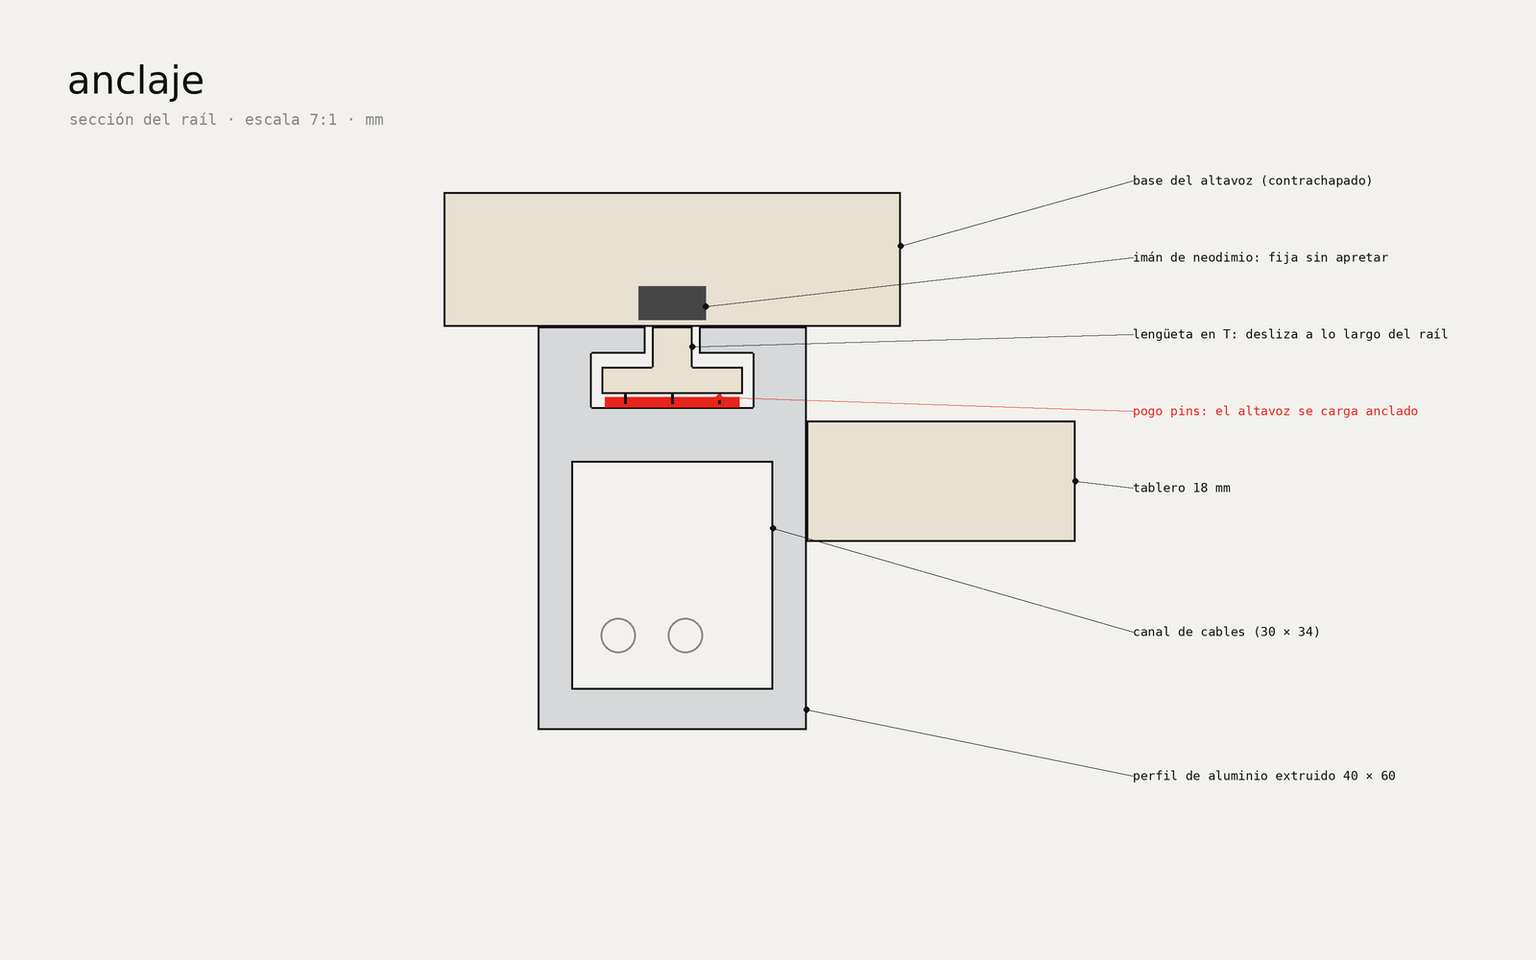
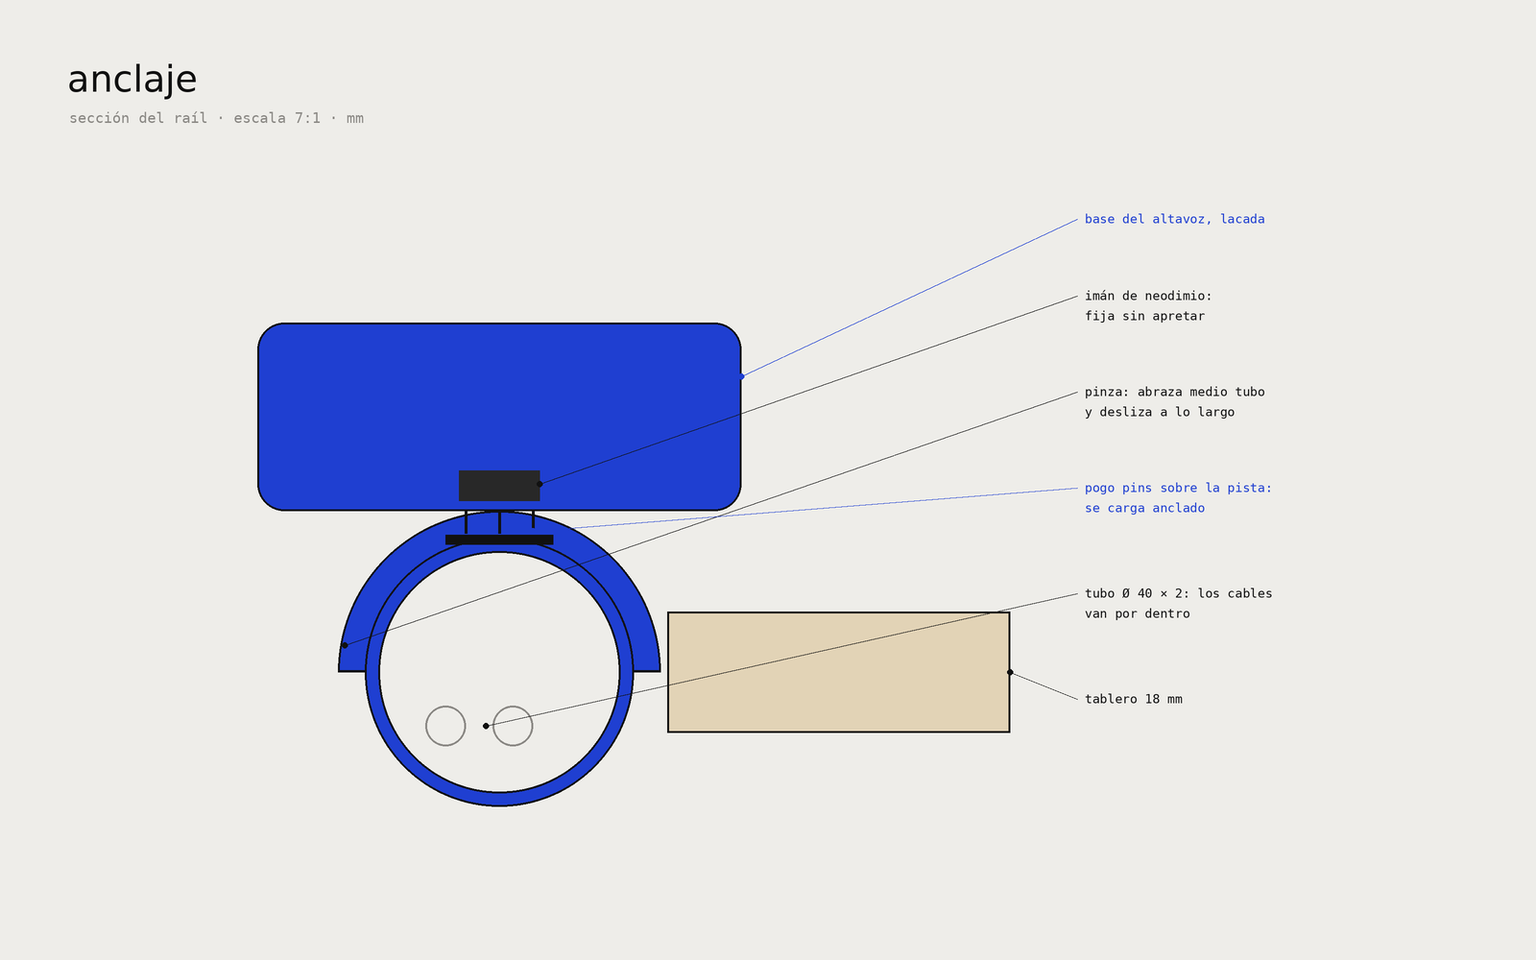
Apply Ziad's aesthetic: cobalt accent and tube language
The site's accent moves from red to cobalt blue. Estudio portátil
concept redrawn as monochrome cobalt objects: bent tube legs, a round
tube rail that doubles as handle and cable duct, lacquered speakers with
a tube handle, and the raw birch edge of the top left visible.

Claude-Session: https://claude.ai/code/session_01TUN31bxfUDbLjRBtznYgvU

diff --git a/dist/ziadaddami.html b/dist/ziadaddami.html
@@ -13,7 +13,7 @@
   --paper:#f2f1ee;
   --ink:#111;
   --mute:#8a8884;
-  --red:#e8251b;
+  --accent:#1f3fd1;
   --mono:"JetBrains Mono", ui-monospace, Menlo, monospace;
 }
 *{box-sizing:border-box;margin:0;padding:0}
@@ -31,7 +31,7 @@ canvas{position:fixed;inset:0;width:100%;height:100%;display:block}
 .tr{right:20px;top:16px;text-align:right}
 .bl{left:20px;bottom:16px}
 .br{right:20px;bottom:16px;text-align:right}
-.phi{color:var(--red)}
+.phi{color:var(--accent)}
 .hint{transition:opacity .8s}
 .hint.off{opacity:0}
 
@@ -39,7 +39,7 @@ canvas{position:fixed;inset:0;width:100%;height:100%;display:block}
 .cap .i{display:block;font-family:var(--mono);font-size:11px;letter-spacing:.04em;color:var(--mute)}
 .cap .t{font-weight:300;font-size:22px;letter-spacing:-.03em;line-height:1.1;margin-right:.5em}
 .cap .d{font-weight:300;font-size:14px;color:var(--mute)}
-.cap .n{display:block;font-family:var(--mono);font-size:11px;letter-spacing:.02em;color:var(--red);margin-top:4px}
+.cap .n{display:block;font-family:var(--mono);font-size:11px;letter-spacing:.02em;color:var(--accent);margin-top:4px}
 @media (max-width:700px){.cap .t{font-size:18px}.cap .d{font-size:13px}}
 /* sobre imagen: texto blanco */
 body.on-img .hud,body.on-img .cap{color:#fff;text-shadow:0 0 8px rgba(0,0,0,.45)}
@@ -129,7 +129,7 @@ const css = getComputedStyle(document.documentElement);
 const PAPER = css.getPropertyValue('--paper').trim();
 const INK = css.getPropertyValue('--ink').trim();
 const MUTE = css.getPropertyValue('--mute').trim();
-const RED = css.getPropertyValue('--red').trim();
+const ACCENT = css.getPropertyValue("--accent").trim();
 const MONO = css.getPropertyValue('--mono').trim();
 const SANS = '"Inter Tight", Helvetica, Arial, sans-serif';
 
@@ -272,7 +272,7 @@ function draw() {
   ctx.restore();
 
   // --- espiral áurea: un cuarto de circunferencia por cuadrado ---
-  ctx.strokeStyle = RED; ctx.lineWidth = hair * 1.4;
+  ctx.strokeStyle = ACCENT; ctx.lineWidth = hair * 1.4;
   ctx.beginPath();
   let first = true;
   for (let j = -2; j < 26; j++) {

diff --git a/index.html b/index.html
@@ -13,7 +13,7 @@
   --paper:#f2f1ee;
   --ink:#111;
   --mute:#8a8884;
-  --red:#e8251b;
+  --accent:#1f3fd1;
   --mono:"JetBrains Mono", ui-monospace, Menlo, monospace;
 }
 *{box-sizing:border-box;margin:0;padding:0}
@@ -31,7 +31,7 @@ canvas{position:fixed;inset:0;width:100%;height:100%;display:block}
 .tr{right:20px;top:16px;text-align:right}
 .bl{left:20px;bottom:16px}
 .br{right:20px;bottom:16px;text-align:right}
-.phi{color:var(--red)}
+.phi{color:var(--accent)}
 .hint{transition:opacity .8s}
 .hint.off{opacity:0}
 
@@ -39,7 +39,7 @@ canvas{position:fixed;inset:0;width:100%;height:100%;display:block}
 .cap .i{display:block;font-family:var(--mono);font-size:11px;letter-spacing:.04em;color:var(--mute)}
 .cap .t{font-weight:300;font-size:22px;letter-spacing:-.03em;line-height:1.1;margin-right:.5em}
 .cap .d{font-weight:300;font-size:14px;color:var(--mute)}
-.cap .n{display:block;font-family:var(--mono);font-size:11px;letter-spacing:.02em;color:var(--red);margin-top:4px}
+.cap .n{display:block;font-family:var(--mono);font-size:11px;letter-spacing:.02em;color:var(--accent);margin-top:4px}
 @media (max-width:700px){.cap .t{font-size:18px}.cap .d{font-size:13px}}
 /* sobre imagen: texto blanco */
 body.on-img .hud,body.on-img .cap{color:#fff;text-shadow:0 0 8px rgba(0,0,0,.45)}
@@ -128,7 +128,7 @@ const css = getComputedStyle(document.documentElement);
 const PAPER = css.getPropertyValue('--paper').trim();
 const INK = css.getPropertyValue('--ink').trim();
 const MUTE = css.getPropertyValue('--mute').trim();
-const RED = css.getPropertyValue('--red').trim();
+const ACCENT = css.getPropertyValue("--accent").trim();
 const MONO = css.getPropertyValue('--mono').trim();
 const SANS = '"Inter Tight", Helvetica, Arial, sans-serif';
 
@@ -271,7 +271,7 @@ function draw() {
   ctx.restore();
 
   // --- espiral áurea: un cuarto de circunferencia por cuadrado ---
-  ctx.strokeStyle = RED; ctx.lineWidth = hair * 1.4;
+  ctx.strokeStyle = ACCENT; ctx.lineWidth = hair * 1.4;
   ctx.beginPath();
   let first = true;
   for (let j = -2; j < 26; j++) {

diff --git a/tools/concept_estudio.py b/tools/concept_estudio.py
@@ -2,24 +2,23 @@
 
   python3 tools/concept_estudio.py      -> fuentes/estudio-*.png
 
-Dibujos de línea con la paleta de la web: conjunto en isométrica, secuencia de plegado
-en alzado y sección del raíl de anclaje. Medidas en cm (conjunto, plegado) y mm (sección).
+Lenguaje: objetos monocromos en azul cobalto lacado (tubo de radio generoso, como un
+grifo Vola), sobre el canto crudo del contrachapado. Conjunto en isométrica, secuencia de
+plegado en alzado y sección del anclaje. Medidas en cm (conjunto, plegado) y mm (sección).
 """
 import math, os
 from PIL import Image, ImageDraw, ImageFont
 
 ROOT = os.path.dirname(os.path.dirname(os.path.abspath(__file__)))
 OUT = os.path.join(ROOT, 'fuentes')
-PAPER, INK, MUTE, RED = (242, 241, 238), (17, 17, 17), (138, 136, 132), (232, 37, 27)
-WOOD, ALU = (232, 224, 208), (214, 216, 218)
-SS = 2  # supersampling
+PAPER, INK, MUTE = (238, 237, 233), (17, 17, 17), (138, 136, 132)
+BLUE = (31, 63, 209)          # cobalto, el mismo acento que la web
+WOOD = (226, 211, 182)        # canto de abedul
+SS = 2                        # supersampling
 
 def font(px, mono=False):
-    for f in (('/usr/share/fonts/truetype/dejavu/DejaVuSansMono.ttf',) if mono else
-              ('/usr/share/fonts/truetype/dejavu/DejaVuSans-ExtraLight.ttf', '/usr/share/fonts/truetype/dejavu/DejaVuSans.ttf')):
-        if os.path.exists(f):
-            return ImageFont.truetype(f, px * SS)
-    return ImageFont.load_default()
+    f = '/usr/share/fonts/truetype/dejavu/' + ('DejaVuSansMono.ttf' if mono else 'DejaVuSans.ttf')
+    return ImageFont.truetype(f, px * SS) if os.path.exists(f) else ImageFont.load_default()
 
 def canvas(w, h):
     im = Image.new('RGB', (w * SS, h * SS), PAPER)
@@ -30,142 +29,165 @@ def save(im, name):
     im.resize((w // SS, h // SS), Image.LANCZOS).save(os.path.join(OUT, name))
     print('ok', name)
 
-def label(d, xy, text, to=None, color=INK, size=13, anchor='la'):
+def title(d, t, sub):
+    d.text((70 * SS, 60 * SS), t, font=font(38), fill=INK)
+    d.text((72 * SS, 114 * SS), sub, font=font(15, True), fill=MUTE)
+
+def label(d, xy, lines, to=None, color=INK):
     x, y = xy
     if to:
-        d.line([to, (x, y + 8 * SS)], fill=color, width=SS)
+        d.line([to, (x - 8 * SS, y + 8 * SS)], fill=color, width=SS)
         d.ellipse([to[0] - 3 * SS, to[1] - 3 * SS, to[0] + 3 * SS, to[1] + 3 * SS], fill=color)
-    d.text((x, y), text, font=font(size, mono=True), fill=color, anchor=anchor)
+    for i, l in enumerate(lines if isinstance(lines, (list, tuple)) else [lines]):
+        d.text((x, y + i * 21 * SS), l, font=font(13, True), fill=color)
 
-# ------------------------------------------------------------------ isométrica
+def shade(c, t):
+    return tuple(max(0, min(255, int(v * t))) for v in c)
+
+# ------------------------------------------------------------------ geometría 3D
 def iso(o, k):
     c, s = math.cos(math.radians(30)), math.sin(math.radians(30))
     return lambda x, y, z: (o[0] + (x - y) * c * k, o[1] + (x + y) * s * k - z * k)
 
-def box(d, P, a, b, fill, w=2):
+def box(d, P, a, b, top, side=None, w=2):
     (x0, y0, z0), (x1, y1, z1) = a, b
-    faces = [  # caras visibles desde +x +y +z
-        [(x1, y0, z0), (x1, y1, z0), (x1, y1, z1), (x1, y0, z1)],
-        [(x0, y1, z0), (x1, y1, z0), (x1, y1, z1), (x0, y1, z1)],
-        [(x0, y0, z1), (x1, y0, z1), (x1, y1, z1), (x0, y1, z1)],
-    ]
-    shade = [0.93, 0.86, 1.0]
-    for f, t in zip(faces, shade):
-        col = tuple(int(c * t) for c in fill)
+    side = side or top
+    for f, col in (([(x1, y0, z0), (x1, y1, z0), (x1, y1, z1), (x1, y0, z1)], shade(side, .86)),
+                   ([(x0, y1, z0), (x1, y1, z0), (x1, y1, z1), (x0, y1, z1)], shade(side, .74)),
+                   ([(x0, y0, z1), (x1, y0, z1), (x1, y1, z1), (x0, y1, z1)], top)):
         d.polygon([P(*p) for p in f], fill=col, outline=INK, width=w * SS)
 
+def fillet(pts, r, n=10):
+    """Polilínea 3D con las esquinas redondeadas (radio r), como un tubo curvado."""
+    out = [pts[0]]
+    for a, b, c in zip(pts, pts[1:], pts[2:]):
+        u = [b[i] - a[i] for i in range(3)]; v = [c[i] - b[i] for i in range(3)]
+        lu = math.sqrt(sum(x * x for x in u)); lv = math.sqrt(sum(x * x for x in v))
+        u = [x / lu for x in u]; v = [x / lv for x in v]
+        rr = min(r, lu / 2, lv / 2)
+        p0 = [b[i] - u[i] * rr for i in range(3)]; p2 = [b[i] + v[i] * rr for i in range(3)]
+        for t in [j / n for j in range(n + 1)]:      # Bézier cuadrática ≈ arco
+            out.append(tuple((1 - t) ** 2 * p0[i] + 2 * (1 - t) * t * b[i] + t * t * p2[i] for i in range(3)))
+    out.append(pts[-1])
+    return out
+
+def tube(d, P, pts, dia, k, col=BLUE, r=8):
+    path = [P(*p) for p in fillet(pts, r)]
+    w = max(2, int(dia * k))
+    d.line(path, fill=INK, width=w + 4 * SS, joint='curve')
+    for q in (path[0], path[-1]):
+        d.ellipse([q[0] - (w + 4 * SS) / 2, q[1] - (w + 4 * SS) / 2, q[0] + (w + 4 * SS) / 2, q[1] + (w + 4 * SS) / 2], fill=INK)
+    d.line(path, fill=col, width=w, joint='curve')
+    for q in (path[0], path[-1]):
+        d.ellipse([q[0] - w / 2, q[1] - w / 2, q[0] + w / 2, q[1] + w / 2], fill=col)
+    hl = [(x - w * .18, y - w * .18) for x, y in path]            # brillo del lacado
+    d.line(hl, fill=shade(col, 1.55), width=max(1, w // 6), joint='curve')
+
+# ------------------------------------------------------------------ conjunto
 def conjunto():
     im, d = canvas(1600, 1000)
-    parts = []
-    for x in (6, 111):                                       # patas: marco de aluminio
-        parts += [((x, 8, 0), (x + 3, 12, 72), ALU), ((x, 8, 0), (x + 3, 60, 3), ALU),
-                  ((x, 56, 0), (x + 3, 60, 72), ALU), ((x, 8, 69), (x + 3, 60, 72), ALU)]
-    parts += [((0, 0, 70), (120, 4, 76), ALU),               # raíl trasero (anclaje + cables + asa)
-              ((0, 4, 72), (120, 64, 73.8), WOOD),           # tablero 18 mm
-              ((38, 30, 73.8), (70, 52, 75.2), (60, 60, 60)),  # portátil
-              ((74, 44, 73.8), (114, 58, 77), (40, 40, 40))]   # controlador
-    for x in (8, 100):                                       # altavoces anclados al raíl
-        parts.append(((x, -3, 76), (x + 12, 9, 96), WOOD))
-    # encaje: proyección unitaria y escala para ocupar la zona de dibujo
     P1 = iso((0, 0), 1)
-    pts = [P1(x, y, z) for a, b, _ in parts for x in (a[0], b[0]) for y in (a[1], b[1]) for z in (a[2], b[2])]
+    pts = [P1(x, y, z) for x in (-2, 122) for y in (-6, 66) for z in (0, 100)]
     x0, x1 = min(p[0] for p in pts), max(p[0] for p in pts)
     y0, y1 = min(p[1] for p in pts), max(p[1] for p in pts)
-    k = min(900 / (x1 - x0), 700 / (y1 - y0))
-    P = iso(((90 - x0 * k) * SS, (220 - y0 * k) * SS), k * SS)
-    for a, b, c in parts:
-        box(d, P, a, b, c)
-        if c is WOOD and a[2] == 76:
-            cx, cy = P(a[0] + 6, b[1], 88); r = 2.6 * k * SS
-            d.ellipse([cx - r, cy - r, cx + r, cy + r], outline=INK, width=2 * SS)
-    d.text((70 * SS, 60 * SS), 'estudio portátil', font=font(40), fill=INK)
-    d.text((72 * SS, 115 * SS), 'escritorio plegable + altavoz portátil · un solo sistema', font=font(16, True), fill=MUTE)
-    label(d, (1110 * SS, 200 * SS), 'altavoz anclado al raíl', to=P(112, 3, 96), color=RED)
-    label(d, (1110 * SS, 222 * SS), 'carga por contacto', color=RED)
-    label(d, (1110 * SS, 330 * SS), 'raíl de aluminio', to=P(120, 2, 76))
-    label(d, (1110 * SS, 352 * SS), 'anclaje + cables + asa')
-    label(d, (1110 * SS, 470 * SS), 'tablero de abedul 18 mm', to=P(120, 34, 73.8))
-    label(d, (1110 * SS, 640 * SS), 'patas: marcos de', to=P(114, 58, 30))
-    label(d, (1110 * SS, 662 * SS), 'aluminio plegado')
-    label(d, (72 * SS, 930 * SS), '120 × 60 × 75 cm · plegado 8 cm · 40 kg', color=MUTE)
+    k = min(880 / (x1 - x0), 720 / (y1 - y0))
+    P = iso(((100 - x0 * k) * SS, (200 - y0 * k) * SS), k * SS)
+    # patas: un tubo continuo por lado, en U invertida con pie, radio generoso
+    for x in (8, 112):
+        tube(d, P, [(x, 6, 0), (x, 6, 71), (x, 58, 71), (x, 58, 0)], 3, k * SS, r=10)
+        tube(d, P, [(x, 0, 0), (x, 64, 0)], 3, k * SS, r=1)
+    # raíl trasero: tubo Ø4 cm que sobresale y hace de asa
+    tube(d, P, [(-2, 2, 73), (122, 2, 73)], 4, k * SS, r=1)
+    # tablero: lacado azul arriba, canto de abedul crudo a la vista
+    box(d, P, (0, 4, 72), (120, 64, 73.8), top=BLUE, side=WOOD)
+    box(d, P, (38, 30, 73.8), (70, 52, 75.2), top=(70, 70, 70))       # portátil
+    box(d, P, (74, 44, 73.8), (112, 58, 77), top=(52, 52, 52))        # controlador
+    # altavoces: cuerpo monocromo con asa de tubo arriba
+    for x in (10, 98):
+        box(d, P, (x, -4, 76), (x + 12, 10, 94), top=BLUE)
+        cx, cy = P(x + 6, 10, 86); r = 3.4 * k * SS
+        d.ellipse([cx - r, cy - r * .9, cx + r, cy + r * .9], fill=shade(BLUE, .55), outline=INK, width=2 * SS)
+        tube(d, P, [(x + 2, 3, 94), (x + 2, 3, 99), (x + 10, 3, 99), (x + 10, 3, 94)], 1.4, k * SS, r=3)
+    title(d, 'estudio portátil', 'escritorio plegable + altavoz portátil · un solo sistema')
+    label(d, (1130 * SS, 190 * SS), ['altavoz: cuerpo lacado', 'asa de tubo · se ancla y', 'se carga en el raíl'], to=P(110, 3, 99), color=BLUE)
+    label(d, (1130 * SS, 330 * SS), ['raíl: tubo Ø 40', 'anclaje + cables + asa'], to=P(122, 2, 73))
+    label(d, (1130 * SS, 450 * SS), ['tablero lacado', 'canto de abedul a la vista'], to=P(120, 40, 72.9))
+    label(d, (1130 * SS, 610 * SS), ['patas: un solo tubo', 'curvado por lado'], to=P(112, 58, 30))
+    d.text((72 * SS, 930 * SS), '120 × 60 × 75 cm · plegado 8 cm · 40 kg · todo en azul cobalto', font=font(13, True), fill=MUTE)
     save(im, 'estudio-conjunto.png')
 
 # ------------------------------------------------------------------ plegado (alzado x-z)
 def plegado():
     im, d = canvas(1600, 1000)
     k = 2.6 * SS
-    def frame(ox, oy, ang, title):
+    def leg(T, hx, sgn, ang, L, col):
+        a = math.radians(ang)
+        px, pz = hx + sgn * L * math.cos(a), 72 - L * math.sin(a)
+        w = int(3 * k)
+        d.line([T(hx, 72), T(px, pz)], fill=INK, width=w + 4 * SS)
+        d.line([T(hx, 72), T(px, pz)], fill=col, width=w)
+    def frame(ox, oy, ang, t):
         T = lambda x, z: (ox + x * k, oy - z * k)
-        d.rectangle([T(0, 76), T(120, 70)], fill=ALU, outline=INK, width=2 * SS)        # raíl detrás
-        d.rectangle([T(0, 73.8), T(120, 72)], fill=WOOD, outline=INK, width=2 * SS)     # tablero
-        for hx, sgn, dash in ((8, 1, False), (112, -1, True)):
-            a = math.radians(ang)
-            L = 69 if not dash else 66
-            ex, ez = hx + sgn * L * math.cos(a) * 0 + sgn * L * (1 - math.sin(a)) * 0, 0
-            # pata = segmento desde la bisagra (hx, 72) girando de vertical (ang=90) a horizontal (0)
-            px, pz = hx + sgn * L * math.cos(a), 72 - L * math.sin(a) - (0 if ang < 90 else 0)
-            w = 3 * SS if not dash else 2 * SS
-            if dash:
-                n = 14
-                for i in range(n):
-                    if i % 2: continue
-                    t0, t1 = i / n, (i + 1) / n
-                    d.line([T(hx + (px - hx) * t0, 72 + (pz - 72) * t0), T(hx + (px - hx) * t1, 72 + (pz - 72) * t1)], fill=INK, width=w)
-            else:
-                d.line([T(hx, 72), T(px, pz)], fill=INK, width=w)
-            d.ellipse([*[v - 5 * SS for v in T(hx, 72)], *[v + 5 * SS for v in T(hx, 72)]], fill=RED)
-        d.text((ox, oy + 18 * SS), title, font=font(14, True), fill=INK)
-    d.text((70 * SS, 60 * SS), 'plegado', font=font(40), fill=INK)
-    d.text((72 * SS, 115 * SS), 'dos marcos que se anidan bajo el tablero · sin herramientas · < 1 min', font=font(16, True), fill=MUTE)
+        leg(T, 112, -1, ang, 66, shade(BLUE, 1.35))                      # marco estrecho (detrás)
+        leg(T, 8, 1, ang, 69, BLUE)                                      # marco ancho
+        d.rounded_rectangle([T(-2, 75), T(122, 71)], radius=2 * k, fill=BLUE, outline=INK, width=2 * SS)  # raíl
+        d.rectangle([T(0, 73.8), T(120, 72)], fill=WOOD, outline=INK, width=2 * SS)                    # canto
+        for hx in (8, 112):
+            d.ellipse([*[v - 5 * SS for v in T(hx, 72)], *[v + 5 * SS for v in T(hx, 72)]], fill=PAPER, outline=INK, width=2 * SS)
+        d.text((ox, oy + 18 * SS), t, font=font(13, True), fill=INK)
+    title(d, 'plegado', 'dos tubos que se anidan bajo el tablero · sin herramientas · < 1 min')
     frame(80 * SS, 470 * SS, 90, '1  abierto · 75 cm')
     frame(560 * SS, 470 * SS, 40, '2  las patas giran hacia dentro')
-    frame(1040 * SS, 470 * SS, 0, '3  plano · los marcos se anidan')
-    # 4: paquete plegado (alzado a escala mayor): tablero + marcos anidados + raíl
-    d.text((80 * SS, 640 * SS), '4  plegado y a cuestas: el raíl es el asa', font=font(14, True), fill=INK)
+    frame(1040 * SS, 470 * SS, 0, '3  plano · un tubo dentro del otro')
+    d.text((80 * SS, 640 * SS), '4  plegado y a cuestas: el raíl es el asa', font=font(13, True), fill=INK)
     k2 = 6 * SS; X = lambda x: 120 * SS + x * k2; Z = lambda z: 820 * SS - z * k2
-    d.rectangle([X(0), Z(8), X(120), Z(4.3)], fill=ALU, outline=INK, width=2 * SS)    # raíl
-    d.rectangle([X(0), Z(4.3), X(120), Z(2.5)], fill=WOOD, outline=INK, width=2 * SS) # tablero
-    d.rectangle([X(8), Z(2.5), X(112), Z(0)], fill=ALU, outline=INK, width=2 * SS)    # marcos anidados
-    d.line([X(124), Z(8), X(124), Z(0)], fill=RED, width=2 * SS)
-    d.text((X(127), Z(5.5)), '8 cm', font=font(14, True), fill=RED)
-    d.text((X(0), Z(-5)), 'cabe detrás de una puerta o bajo la cama', font=font(14, True), fill=MUTE)
-    d.ellipse([1200 * SS, 645 * SS, 1210 * SS, 655 * SS], fill=RED)
-    d.text((1220 * SS, 641 * SS), 'bisagra con pestillo', font=font(14, True), fill=INK)
-    d.line([1200 * SS, 680 * SS, 1240 * SS, 680 * SS], fill=INK, width=3 * SS)
-    d.text((1250 * SS, 672 * SS), 'marco ancho', font=font(14, True), fill=INK)
-    for i in range(0, 40, 12): d.line([(1200 + i) * SS, 705 * SS, (1206 + i) * SS, 705 * SS], fill=INK, width=2 * SS)
-    d.text((1250 * SS, 697 * SS), 'marco estrecho (anida)', font=font(14, True), fill=INK)
+    d.rounded_rectangle([X(-2), Z(8), X(122), Z(4)], radius=2 * k2, fill=BLUE, outline=INK, width=2 * SS)
+    d.rectangle([X(0), Z(4.3), X(120), Z(2.5)], fill=WOOD, outline=INK, width=2 * SS)
+    d.rounded_rectangle([X(8), Z(2.5), X(112), Z(0)], radius=1.2 * k2, fill=BLUE, outline=INK, width=2 * SS)
+    d.line([X(126), Z(8), X(126), Z(0)], fill=BLUE, width=2 * SS)
+    d.text((X(129), Z(5.6)), '8 cm', font=font(13, True), fill=BLUE)
+    d.text((X(0), Z(-5)), 'cabe detrás de una puerta o bajo la cama', font=font(13, True), fill=MUTE)
+    d.ellipse([1200 * SS, 645 * SS, 1210 * SS, 655 * SS], fill=PAPER, outline=INK, width=2 * SS)
+    d.text((1222 * SS, 641 * SS), 'bisagra con pestillo', font=font(13, True), fill=INK)
+    d.line([1196 * SS, 677 * SS, 1214 * SS, 677 * SS], fill=BLUE, width=6 * SS)
+    d.text((1222 * SS, 669 * SS), 'tubo ancho', font=font(13, True), fill=INK)
+    d.line([1196 * SS, 703 * SS, 1214 * SS, 703 * SS], fill=shade(BLUE, 1.35), width=6 * SS)
+    d.text((1222 * SS, 695 * SS), 'tubo estrecho (anida)', font=font(13, True), fill=INK)
     save(im, 'estudio-plegado.png')
 
-# ------------------------------------------------------------------ sección del anclaje (mm)
+# ------------------------------------------------------------------ anclaje (sección, mm)
 def anclaje():
     im, d = canvas(1600, 1000)
     k = 7 * SS
-    O = (560 * SS, 760 * SS)
+    O = (520 * SS, 700 * SS)
     T = lambda y, z: (O[0] + y * k, O[1] - z * k)
-    poly = lambda pts, **kw: d.polygon([T(*p) for p in pts], **kw)
-    # raíl extruido 40 × 60: canal de cables abajo, ranura en T arriba, ala atornillada al canto del tablero
-    poly([(0, 0), (40, 0), (40, 60), (24, 60), (24, 56), (32, 56), (32, 48), (8, 48), (8, 56), (16, 56), (16, 60), (0, 60)], fill=ALU, outline=INK, width=2 * SS)
-    d.rectangle([T(5, 40), T(35, 6)], fill=PAPER, outline=INK, width=2 * SS)          # canal de cables
-    for cy in (14, 24):
-        d.ellipse([*[v - 2.6 * k for v in T(12 + (cy - 14), 14)], *[v + 2.6 * k for v in T(12 + (cy - 14), 14)]], outline=MUTE, width=2 * SS)
-    d.rectangle([T(40, 46), T(80, 28)], fill=WOOD, outline=INK, width=2 * SS)         # tablero 18 mm
-    d.rectangle([T(10, 49.5), T(30, 48)], fill=RED)                                    # pista de contactos
-    # pie del altavoz: lengüeta en T + imán + pogo pins
-    poly([(17, 60), (17, 54), (9.5, 54), (9.5, 50), (30.5, 50), (30.5, 54), (23, 54), (23, 60)], fill=WOOD, outline=INK, width=2 * SS)
-    d.rectangle([T(-14, 80), T(54, 60)], fill=WOOD, outline=INK, width=2 * SS)        # base del altavoz
-    d.rectangle([T(15, 66), T(25, 61)], fill=(70, 70, 70))                             # imán
-    for py in (13, 20, 27):
-        d.line([T(py, 50), T(py, 48.5)], fill=INK, width=3 * SS)
-    d.text((70 * SS, 60 * SS), 'anclaje', font=font(40), fill=INK)
-    d.text((72 * SS, 115 * SS), 'sección del raíl · escala 7:1 · mm', font=font(16, True), fill=MUTE)
-    label(d, (1180 * SS, 180 * SS), 'base del altavoz (contrachapado)', to=T(54, 72))
-    label(d, (1180 * SS, 260 * SS), 'imán de neodimio: fija sin apretar', to=T(25, 63))
-    label(d, (1180 * SS, 340 * SS), 'lengüeta en T: desliza a lo largo del raíl', to=T(23, 57))
-    label(d, (1180 * SS, 420 * SS), 'pogo pins: el altavoz se carga anclado', to=T(27, 49.5), color=RED)
-    label(d, (1180 * SS, 500 * SS), 'tablero 18 mm', to=T(80, 37))
-    label(d, (1180 * SS, 650 * SS), 'canal de cables (30 × 34)', to=T(35, 30))
-    label(d, (1180 * SS, 800 * SS), 'perfil de aluminio extruido 40 × 60', to=T(40, 3))
+    R = 20                                                   # tubo Ø 40 × 2
+    c = T(0, 0)
+    d.ellipse([c[0] - R * k, c[1] - R * k, c[0] + R * k, c[1] + R * k], fill=BLUE, outline=INK, width=2 * SS)
+    d.ellipse([c[0] - (R - 2) * k, c[1] - (R - 2) * k, c[0] + (R - 2) * k, c[1] + (R - 2) * k], fill=PAPER, outline=INK, width=2 * SS)
+    for cy in (-8, 2):                                        # cables por dentro del tubo
+        q = T(cy, -8); d.ellipse([q[0] - 3 * k, q[1] - 3 * k, q[0] + 3 * k, q[1] + 3 * k], outline=MUTE, width=2 * SS)
+    d.rectangle([T(-8, 20.4), T(8, 18.6)], fill=INK)                        # pista de contactos (plano superior)
+    # pinza del altavoz: abraza medio tubo, imán y pogo pins
+    d.chord([c[0] - (R + 4) * k, c[1] - (R + 4) * k, c[0] + (R + 4) * k, c[1] + (R + 4) * k], 180, 360, fill=BLUE, outline=INK, width=2 * SS)
+    d.chord([c[0] - R * k, c[1] - R * k, c[0] + R * k, c[1] + R * k], 180, 360, fill=PAPER)
+    d.ellipse([c[0] - R * k, c[1] - R * k, c[0] + R * k, c[1] + R * k], fill=BLUE, outline=INK, width=2 * SS)
+    d.ellipse([c[0] - (R - 2) * k, c[1] - (R - 2) * k, c[0] + (R - 2) * k, c[1] + (R - 2) * k], fill=PAPER, outline=INK, width=2 * SS)
+    for cy in (-8, 2):
+        q = T(cy, -8); d.ellipse([q[0] - 3 * k, q[1] - 3 * k, q[0] + 3 * k, q[1] + 3 * k], outline=MUTE, width=2 * SS)
+    d.rectangle([T(-8, 20.4), T(8, 19)], fill=INK)
+    d.rounded_rectangle([T(-36, 52), T(36, 24)], radius=4 * k, fill=BLUE, outline=INK, width=2 * SS)     # base del altavoz
+    d.rectangle([T(-6, 30), T(6, 25.5)], fill=(40, 40, 40))                                             # imán
+    for py in (-5, 0, 5):
+        d.line([T(py, 24), T(py, 20.6)], fill=INK, width=3 * SS)
+    d.rectangle([T(25, 9), T(76, -9)], fill=WOOD, outline=INK, width=2 * SS)                       # tablero 18 mm
+    title(d, 'anclaje', 'sección del raíl · escala 7:1 · mm')
+    label(d, (1130 * SS, 220 * SS), ['base del altavoz, lacada'], to=T(36, 44), color=BLUE)
+    label(d, (1130 * SS, 300 * SS), ['imán de neodimio:', 'fija sin apretar'], to=T(6, 28))
+    label(d, (1130 * SS, 400 * SS), ['pinza: abraza medio tubo', 'y desliza a lo largo'], to=T(-23, 4))
+    label(d, (1130 * SS, 500 * SS), ['pogo pins sobre la pista:', 'se carga anclado'], to=T(5, 21), color=BLUE)
+    label(d, (1130 * SS, 610 * SS), ['tubo Ø 40 × 2: los cables', 'van por dentro'], to=T(-2, -8))
+    label(d, (1130 * SS, 720 * SS), ['tablero 18 mm'], to=T(76, 0))
     save(im, 'estudio-anclaje.png')
 
 if __name__ == '__main__':
